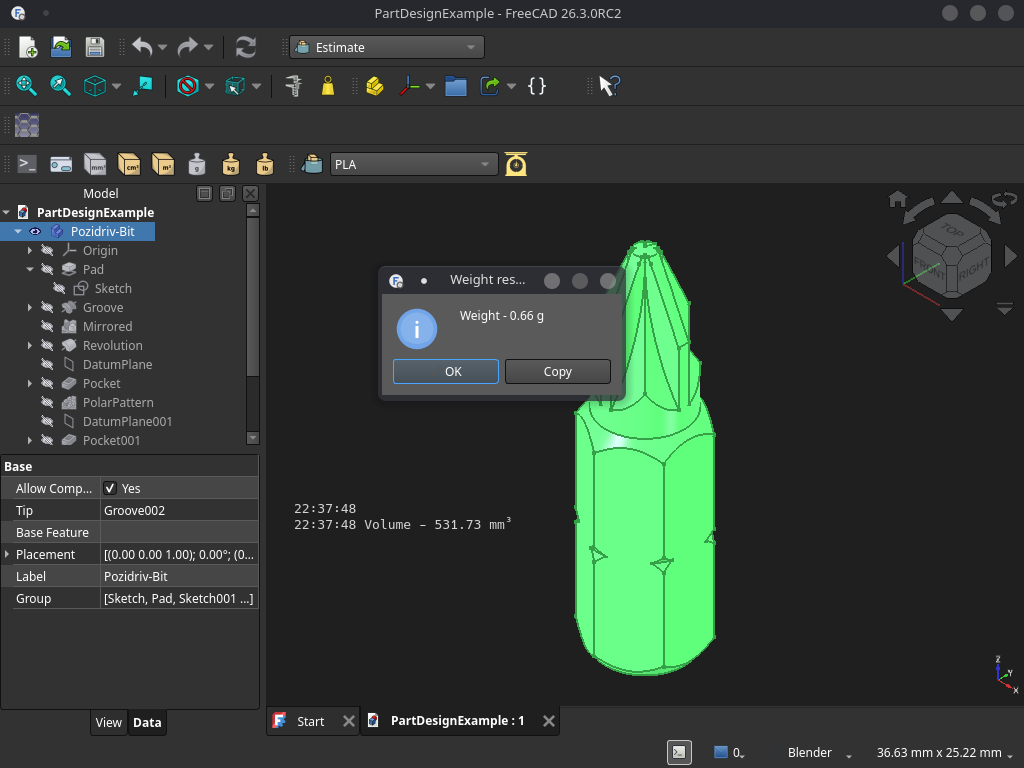
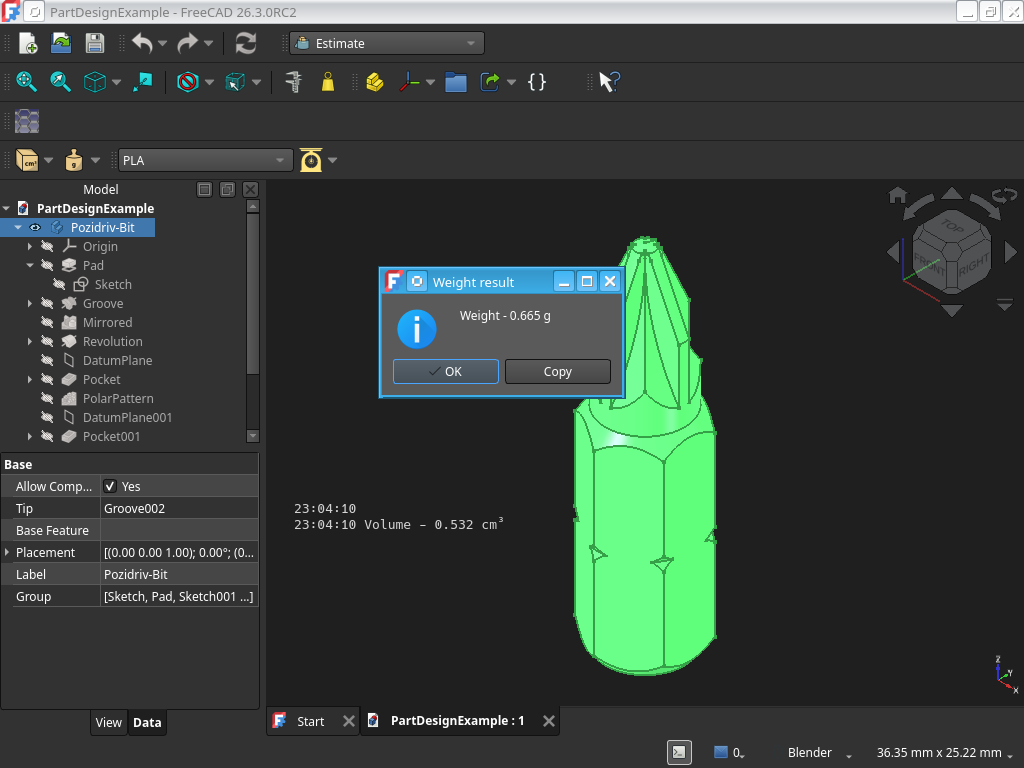
Docs: cover preferences, unit/calculate dropdowns, units, rounding
- README/Overview: usage for the unit dropdown buttons (in³, ft³, oz),
  the combined weight/volume calculate button, the 10-row material
  list, and a new Preferences section (output mode, custom materials);
  rounding paragraph rewritten for significant digits.
- README: unreleased version entry covers every change; Customize
  points to the preferences for own materials.
- Screenshots retaken in FreeCAD 26.3: main, calculate menu, unit
  menu, material list, custom density prompt, preferences page.

diff --git a/README.md b/README.md
@@ -5,9 +5,9 @@ A FreeCAD workbench to estimate material quantity by volume or weight for select
 ### Background
 [This frankenstein's monster of a workbench](#about-the-code) for FreeCAD has been somehow sewn together to work almost as expected.
 
-You can display the volume or expected weight of selected objects at the push of a button. Both display with the decimal precision as set in FreeCAD's settings (2 by default if not specified). Rounding has been adjusted to ignore floating point offsets and limit confusion with defined 1cm³ cubes displaying 1.01 cm³. This might lead to a slight but most likely negligible rounding error, as the output enables you to estimate or calculate the necessary amount of material for additive manufacturing - @100 % infill, ignoring support structures, purging and other slicer settings that add anyway.
+You can display the volume or expected weight of selected objects at the push of a button. Both display with the decimal precision as set in FreeCAD's settings (2 by default if not specified), results below 1 keep at least 3 significant digits so small parts don't show as 0.00 in large units like m³ or ft³. Rounding is to the nearest value, so a defined 1cm³ cube displays 1.00 cm³ and not 1.01 cm³ due to floating point offsets. The output enables you to estimate or calculate the necessary amount of material for additive manufacturing - @100 % infill, ignoring support structures, purging and other slicer settings that add anyway.
 
-Common 3d-printing materials and a range of metals are supported by default, and you can always pick a custom density in g/cm³ from the same material dropdown.
+Common 3d-printing materials and a range of metals are supported by default, you can add your own materials in the preferences, and you can always pick a one-off custom density in g/cm³ from the same material dropdown.
 
 ![screenshot](freecad/estimateWB/resources/screenshot.png)
 
@@ -25,12 +25,17 @@ Common 3d-printing materials and a range of metals are supported by default, and
 
 ### Version update
 * unreleased
-    * **material dropdown instead of one button per material**: the estimate toolbar had a button for every material, which doesn't scale beyond a handful of materials. Materials are now picked from a dropdown and the weight is calculated with the calculate button next to it
+    * **material dropdown instead of one button per material**: the estimate toolbar had a button for every material, which doesn't scale beyond a handful of materials. Materials are now picked from a dropdown, limited to 10 visible entries with a scrollbar
+    * **one calculate button for weight and volume**: weight and volume share a single toolbar button with a dropdown arrow, like FreeCAD's own grouped commands, placed after the material dropdown
     * **metals added**: aluminium, brass, bronze, copper, gold, iron, lead, magnesium, mercury, nickel, platinum, silver, steel, tin alloys, titanium, tungsten and zinc densities. These were stranded in an outdated copy of the workbench in the repository root since the restructure and are now part of the actual workbench
     * **custom density moved into the dropdown**: the separate custom density button is replaced by the *Custom…* entry, which prompts once, remembers the density across restarts and is used by the calculate button like any other material
-    * **result format**: results read *Weight - 0.66 g* and *Volume - 531.73 mm³* in the report view and popup, as the material is visible in the dropdown
-    * **report view opens on calculate**: the report view panel is opened and brought to the front if it's closed or behind another tab
-    * **cleanup**: the outdated root level copy of the workbench (pre-restructure python files, languages and icons) and the no longer used per-material and custom density icons are removed
+    * **preferences page**: report view / popup output moved from the toolbar to *Edit → Preferences → Estimate*, which also lets you add your own materials
+    * **unit buttons**: the six unit buttons are two dropdown buttons, one for volume and one for weight, each showing the unit in use
+    * **more units**: in³ and ft³ for volume, oz for weight
+    * **result format**: results read *Weight - 0.665 g* and *Volume - 0.532 cm³* in the report view and popup, as the material is visible in the dropdown
+    * **rounding**: results below 1 keep at least 3 significant digits instead of turning into 0.00 in large units, and rounding no longer trips over binary floating point (2.675 now rounds to 2.68)
+    * **report view raised on calculate**: the report view panel is brought to the front if it's hidden or behind another tab
+    * **cleanup**: the outdated root level copy of the workbench (pre-restructure python files, languages and icons) and the no longer used per-material, custom density and output toggle icons are removed
 * 0.1.5
     * same functionality, new codebase
     * settings as a single menu item and toolbar
@@ -39,28 +44,40 @@ Common 3d-printing materials and a range of metals are supported by default, and
 
 ### Usage
 
-Select objects, parts, groups or bodies and at the push of a button of the workbench the desired output is displayed in the report view panel or as a popup.
+Select objects, parts, groups or bodies and at the push of a button of the workbench the desired output is displayed in the report view panel or as a popup, e.g. *Volume - 0.532 cm³* or *Weight - 0.665 g*.
 
 Two toolbars are available:
 
-**Settings**
-* Select the desired report mode for report view or popup
-* Select the desired output for the volume in mm³, cm³ or m³
-* Select the desired output for the weight in g, kg or lb 
+**Estimate Settings**
+* The volume unit button sets the output for the volume in mm³, cm³, m³, in³ or ft³
+* The weight unit button sets the output for the weight in g, kg, lb or oz
+* Both buttons show the unit in use, the arrow next to them lists the others. The *Estimate Settings* menu lists all units as well
+
+![unit buttons](freecad/estimateWB/resources/screenshot_units.png)
 
 **Estimate**
-* The volume button returns the volume of the selected objects
-* The material dropdown selects what the weight is calculated with
+* The material dropdown selects what the weight is calculated with, showing 10 entries at a time
     * 3d-printing plastics: ABS, NYLon, PA12, PolyCarbonate, PETG, PLA and TPU
     * metals: aluminium, brass, bronze, copper, gold, iron, lead, magnesium, mercury, nickel, platinum, silver, steel, tin alloys, titanium, tungsten and zinc
+    * your own materials from the [preferences](#preferences)
     * *Custom…* at the end of the list asks for a decimal density in g/cm³ (comma or dot), saves it and shows it in the dropdown, e.g. *Custom (1.38 g/cm³)*. Pick it again to change the density. The saved density is kept across FreeCAD restarts
-* The calculate button (scale icon) next to the dropdown returns the estimated weight of the selected objects for the picked material. If the report view panel is closed it is opened, so the result isn't missed
+* The calculate button (scale icon) next to the dropdown returns the estimated weight of the selected objects for the picked material. The arrow next to it switches between *Weight by material* and *Volume*, the button keeps the last used one. If the report view panel is hidden it is brought to the front, so the result isn't missed
+
+![calculate button](freecad/estimateWB/resources/screenshot_calculate.png)
 
 ![material dropdown](freecad/estimateWB/resources/screenshot_materials.png)
 
 ![custom density](freecad/estimateWB/resources/screenshot_custom_density.png)
 
-Thats all. Basically the workbench reads the objects shape.volume-property provided by FreeCAD, which is conveniently returned in mm³. So any output will be in metric units by default, lb and weight units toolbar work of [@zackwhit](https://github.com/zackwhit/). They also added a popup that has been applied to the volume as well in version 0.1.4 - now toggleable for either report view or popup.
+### Preferences
+
+*Edit → Preferences → Estimate* holds the workbench settings:
+* **Result output**: show results in the report view or as a popup with a copy button
+* **Custom materials**: add materials with a name and a density in g/cm³, they are listed in the material dropdown after the built-in ones. A material with the name of a built-in one replaces its density. Changes apply to the dropdown right away
+
+![preferences](freecad/estimateWB/resources/screenshot_preferences.png)
+
+Thats all. Basically the workbench reads the objects shape.volume-property provided by FreeCAD, which is conveniently returned in mm³. So any output will be in metric units by default, lb and weight units toolbar work of [@zackwhit](https://github.com/zackwhit/). They also added a popup that has been applied to the volume as well in version 0.1.4 - now selectable for either report view or popup in the preferences.
 
 [@PhoneDroid](https://github.com/PhoneDroid) added the result for *all selected* parts.
 
@@ -86,7 +103,7 @@ This workbench can be installed manually by adding the whole folder into the per
 
 ### Customize
 
-If you want to change standard materials you can do so by editing the `freecad/estimateWB/resources/materials.json`-file (name and density in g/cm³). The material dropdown will update itself after a FreeCAD restart, no icons needed. If you are unsatisfied with the default densities you are free to edit these within the file as well, or use the *Custom…* entry for a one-off density.
+Your own materials are best added in *Edit → Preferences → Estimate*, they survive workbench updates. If you want to change the built-in materials you can edit the `freecad/estimateWB/resources/materials.json`-file (name and density in g/cm³), the material dropdown updates itself after a FreeCAD restart, no icons needed. For a one-off density use the *Custom…* entry.
 
 Different languages according to user settings are technically supported - but actually restricted to english by default and german due to my own limitations. This might be more proof-of-concept than actually useful but feel free to contribute :) Since one does usually not switch languages by the minute I did not bother finding out how to update during runtime yet, so FreeCad has to be restarted to have language-changes take effect on this workbench.
 

diff --git a/Overview.md b/Overview.md
@@ -2,34 +2,46 @@
 
 A FreeCAD workbench to estimate material quantity by volume or weight for selected parts
 
-You can display the volume or expected weight of selected objects at the push of a button. Both display with the decimal precision as set in FreeCAD's settings (2 by default if not specified). Rounding has been adjusted to ignore floating point offsets and limit confusion with defined 1cm³ cubes displaying 1.01 cm³. This might lead to a slight but most likely negligible rounding error, as the output enables you to estimate or calculate the necessary amount of material for additive manufacturing - @100 % infill, ignoring support structures, purging and other slicer settings that add anyway.
+You can display the volume or expected weight of selected objects at the push of a button. Both display with the decimal precision as set in FreeCAD's settings (2 by default if not specified), results below 1 keep at least 3 significant digits so small parts don't show as 0.00 in large units like m³ or ft³. Rounding is to the nearest value, so a defined 1cm³ cube displays 1.00 cm³ and not 1.01 cm³ due to floating point offsets. The output enables you to estimate or calculate the necessary amount of material for additive manufacturing - @100 % infill, ignoring support structures, purging and other slicer settings that add anyway.
 
-Common 3d-printing materials and a range of metals are supported by default, and you can always pick a custom density in g/cm³ from the same material dropdown.
+Common 3d-printing materials and a range of metals are supported by default, you can add your own materials in the preferences, and you can always pick a one-off custom density in g/cm³ from the same material dropdown.
 
 ![screenshot](freecad/estimateWB/resources/screenshot.png)
 
 ### Usage
 
-Select objects, parts, groups or bodies and at the push of a button of the workbench the desired output is displayed in the report view panel or as a popup.
+Select objects, parts, groups or bodies and at the push of a button of the workbench the desired output is displayed in the report view panel or as a popup, e.g. *Volume - 0.532 cm³* or *Weight - 0.665 g*.
 
 Two toolbars are available:
 
-**Settings**
-* Select the desired report mode for report view or popup
-* Select the desired output for the volume in mm³, cm³ or m³
-* Select the desired output for the weight in g, kg or lb 
+**Estimate Settings**
+* The volume unit button sets the output for the volume in mm³, cm³, m³, in³ or ft³
+* The weight unit button sets the output for the weight in g, kg, lb or oz
+* Both buttons show the unit in use, the arrow next to them lists the others. The *Estimate Settings* menu lists all units as well
+
+![unit buttons](freecad/estimateWB/resources/screenshot_units.png)
 
 **Estimate**
-* The volume button returns the volume of the selected objects
-* The material dropdown selects what the weight is calculated with
+* The material dropdown selects what the weight is calculated with, showing 10 entries at a time
     * 3d-printing plastics: ABS, NYLon, PA12, PolyCarbonate, PETG, PLA and TPU
     * metals: aluminium, brass, bronze, copper, gold, iron, lead, magnesium, mercury, nickel, platinum, silver, steel, tin alloys, titanium, tungsten and zinc
+    * your own materials from the [preferences](#preferences)
     * *Custom…* at the end of the list asks for a decimal density in g/cm³ (comma or dot), saves it and shows it in the dropdown, e.g. *Custom (1.38 g/cm³)*. Pick it again to change the density. The saved density is kept across FreeCAD restarts
-* The calculate button (scale icon) next to the dropdown returns the estimated weight of the selected objects for the picked material. If the report view panel is closed it is opened, so the result isn't missed
+* The calculate button (scale icon) next to the dropdown returns the estimated weight of the selected objects for the picked material. The arrow next to it switches between *Weight by material* and *Volume*, the button keeps the last used one. If the report view panel is hidden it is brought to the front, so the result isn't missed
+
+![calculate button](freecad/estimateWB/resources/screenshot_calculate.png)
 
 ![material dropdown](freecad/estimateWB/resources/screenshot_materials.png)
 
 ![custom density](freecad/estimateWB/resources/screenshot_custom_density.png)
+
+### Preferences
+
+*Edit → Preferences → Estimate* holds the workbench settings:
+* **Result output**: show results in the report view or as a popup with a copy button
+* **Custom materials**: add materials with a name and a density in g/cm³, they are listed in the material dropdown after the built-in ones. A material with the name of a built-in one replaces its density. Changes apply to the dropdown right away
+
+![preferences](freecad/estimateWB/resources/screenshot_preferences.png)
 
 Thats all. Basically the workbench reads the objects shape.volume-property provided by FreeCAD, which is conveniently returned in mm³.
 
